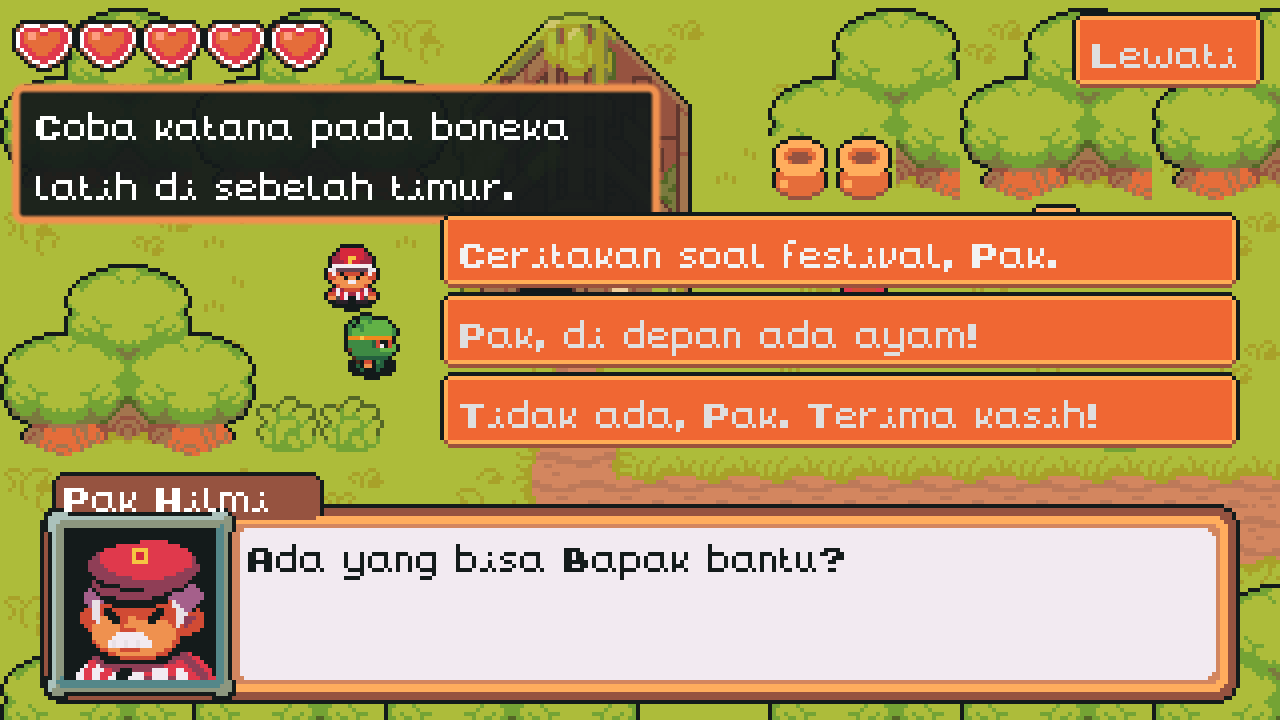
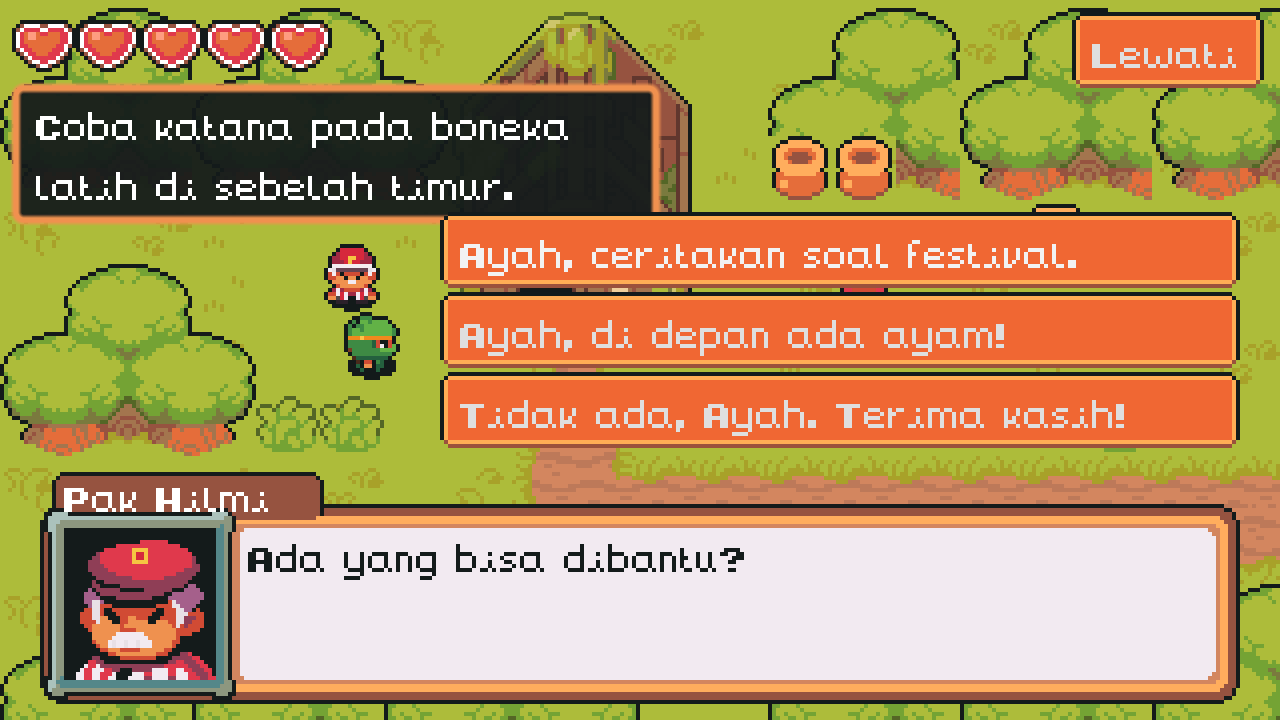
feat: panggilan Ayah (Pak Hilmi) dan Mamah (Dokter Zahra) dalam dialog; catatan hubungan keluarga
- dialog uji ID+EN diperbarui (EN sementara Dad/Mom), baris Arka berterima kasih kepada Mamah
- story_bible 3.2: panggilan + tiga opsi hubungan [USULAN] tanpa memutuskan; act01_desain S2/S6 dan 12.3
- fase2_catatan: pembaruan panggilan

Claude-Session: https://claude.ai/code/session_01F5qnggTGEAPer6BV2KrinP

diff --git a/docs/act01_desain.md b/docs/act01_desain.md
@@ -61,6 +61,7 @@ Desa Daun di pagi cerah (musik hangat), dibagi menjadi **6 ruang layar** (sistem
 | Pembicara | ID | EN |
 |---|---|---|
 | Pak Hilmi | Kumpulkan tiga gulungan latihan. Kerja sama itu penting, Arka. | Collect three training scrolls. Teamwork matters, Arka. |
+| Arka | Siap, Ayah! Kami akan bekerja sama. | Yes, Dad! We'll work together. |
 | Nadiya | Target terkunci. Jangan ada yang lewat di garis tembakku! | Target locked. Nobody cross my line of fire! |
 | Nadiya | ...Itu cuma papan petunjuk? | ...That was just a signboard? |
 | Farah | Secara teori, alat pelacak ini aman! | In theory, this tracker is safe! |
@@ -91,6 +92,7 @@ Desa Daun di pagi cerah (musik hangat), dibagi menjadi **6 ruang layar** (sistem
 | Pembicara | ID | EN |
 |---|---|---|
 | Pak Hilmi | Selamat! Kalian lulus! Minggu depan Festival Seribu Shuriken! | Congratulations! You passed! Next week is the Festival of a Thousand Shuriken! |
+| Arka | Terima kasih, Ayah! Aku lulus! | Thank you, Dad! I passed! |
 | Ibu Sari | HOKAGEEE! Ramenku jadi... bubur ungu! | HOKAGEEE! My ramen turned into... purple porridge! |
 | Farah | Detektorku bilang semua orang ancaman. Termasuk aku. | My detector says everyone is a threat. Including me. |
 | Bida | Ada jejak lendir menuju saluran air. Ini bukan kejadian satu kali. | A slime trail leads to the drain. This isn't a one-time thing. |
@@ -151,7 +153,8 @@ Setelah menemukan jeruji, Ibu Sari datang membawa kabar: **sumur desa mengeluark
 ### 12.3 Pengaturan teknis
 - Musik: R1-R3 `33 - Calm Village` / `31 - Sunny`; pengejaran `35 - Adventure`; boss ringan `34 - Fight` (volume rendah); gudang `28 - Tension` (ringan) lalu kembali tenang.
 - Cuaca/lingkungan: cerah, daun berguguran ringan di R5.
-- Dokter Zahra di R2 menyembuhkan seluruh tim setiap diajak bicara (sesuai brief).
+- Dokter Zahra di R2 menyembuhkan seluruh tim setiap diajak bicara (sesuai brief). Keempat tokoh utama menyapanya "Mamah" (EN sementara: "Mom"), mis. Arka: "Terima kasih, Mamah!"
+- **Panggilan:** Arka, Bida, Nadiya, Farah memanggil Pak Hilmi "Ayah" dan Dokter Zahra "Mamah" (EN sementara "Dad"/"Mom"). Warga lain dan narasi tetap "Hokage Pak Hilmi" dan "Dokter Zahra"; nama pembicara di kotak dialog tidak berubah.
 - Mode Santai: ayam lebih lambat, boss 2 pukulan.
 - **Tutorial bertahap:** gerak (R1) → interaksi dan dialog (R3) → serang (pos 2) → bidik Nadiya (target) → perintah partner (pengejaran) → dash (celah pasar) → boss.
 

diff --git a/docs/story_bible.md b/docs/story_bible.md
@@ -67,6 +67,15 @@ Keputusan tampilan (pengguna): **Bida, Nadiya, dan Farah berhijab atau bertudung
 | **Dokter Zahra** | Membantu memimpin Desa Daun, dokter desa; **berhijab** biru muda yang lembut dengan jas putih berlambang palang | Keibuan dan lembut, takut serangga | **Menyembuhkan rombongan setiap kali mereka datang ke rumah Hokage dan berinteraksi dengannya** |
 | **Kuro** | Antagonis: dulu murid berbakat yang ikut membangun Mesin; proyek dihentikan setelah kecelakaan, ia merasa dikhianati | Tetap manusiawi (lihat usulan di 3.3) | Berubah dari lawan menjadi sekutu yang memperbaiki desa |
 
+**Panggilan keluarga (keputusan pengguna):** Arka, Bida, Nadiya, dan Farah memanggil Pak Hilmi **"Ayah"** dan Dokter Zahra **"Mamah"** dalam percakapan sehari-hari (EN sementara: "Dad" / "Mom"; bisa diganti). Warga lain, narasi, dan nama pembicara di dialog tetap "Hokage Pak Hilmi" dan "Dokter Zahra"; nama baku di brief tidak berubah.
+
+**[USULAN] Hubungan keluarganya belum ditentukan pengguna.** Opsi (jangan dianggap keputusan):
+- **A. Anak kandung** Pak Hilmi dan Dokter Zahra (Arka) dan anak-anak lain dianggap saudara/sahabat keluarga. Tema Arka ("Hokage itu terkenal dan dapat ramen gratis" → melayani warga) menjadi juga soal melanjutkan jejak ayahnya.
+- **B. Anak asuh** keluarga Hokage: keempatnya dibesarkan di rumah Hokage. Cocok dengan tim yang saling menjaga dan dengan rumah Hokage sebagai tempat pulang/pemulihan.
+- **C. Murid yang dianggap anak:** panggilan "Ayah/Mamah" tumbuh dari kedekatan murid-guru. Paling mudah selaras dengan masa lalu Pak Hilmi sebagai guru di akademi.
+
+Catatan keselarasan: (1) Hubungan Pak Hilmi dengan **Kuro** tetap sebagai **murid di akademi**; pada opsi A/B, Kuro bisa dipandang "murid yang tidak pernah dipanggil anak" sehingga rasa dikhianatinya makin dimengerti, tanpa mengubah motivasi yang sudah dikunci di 4.1. (2) Tema Arka tidak bertabrakan: ketenaran dan ramen gratis tetap motivasi awal; "Ayah" yang melayani warga menjadi teladan yang pelan-pelan ia pahami. (3) Dokter Zahra tetap "istri Hokage" seperti di tabel nama baku.
+
 ### 3.3 [USULAN] Kuro yang manusiawi
 Supaya Kuro tidak jadi penjahat satu dimensi:
 - Ia merawat **kebun kecil dan kucing liar** di markasnya (menjelaskan banyaknya kucing di Act 7; **Kucing Petir** adalah kucing yang ia beri makan, membesar karena energi curian).

diff --git a/docs/fase2_catatan.md b/docs/fase2_catatan.md
@@ -176,3 +176,16 @@ kesulitan perlu dicoba langsung oleh pengguna.
   `assets/SOURCES.md`. `docs/act01_desain.md` tidak menyebut tampilan tokoh sehingga tidak berubah.
 - Screenshot sprite: `docs/fase2_screenshots/16_sprite_tokoh.png` (semua tokoh, 4 arah, semua baris animasi, plus faceset).
   Seluruh screenshot dalam game diambil ulang setelah perubahan ini.
+
+## Pembaruan: panggilan "Ayah" dan "Mamah" (keputusan pengguna)
+
+- Arka, Bida, Nadiya, Farah memanggil **Pak Hilmi "Ayah"** dan **Dokter Zahra "Mamah"** (ID). Versi **EN sementara "Dad" / "Mom"**
+  (mudah diganti: hanya di `content/acts/act01/act01_dialogs.en.json`, kunci `CH_HILMI_*`, `DLG_HILMI_ARKA_*`, `DLG_ZAHRA_ARKA_RAMEN`,
+  `DLG_ZAHRA_TERIMA_KASIH`). Warga lain dan narasi tetap "Hokage Pak Hilmi" / "Dokter Zahra"; **nama pembicara tidak berubah**
+  (`translations/characters.*.json`), hanya kata sapaan dalam kalimat.
+- Dialog uji yang diubah: pilihan dan jawaban Arka di `hilmi_sapa` ("Ayah, di depan ada ayam!", "Ayah, ada ramen gratis?"),
+  `zahra_sembuhkan` ("Siap, Mamah!" dan baris baru "Terima kasih, Mamah!"). Pak Hilmi tidak lagi menyebut dirinya "Bapak"
+  (kalimatnya dibuat netral) supaya tidak memutuskan hubungan keluarga yang belum ditentukan.
+- `docs/story_bible.md` 3.2: catatan panggilan + tiga opsi hubungan ditandai **[USULAN]** (anak kandung / anak asuh / murid yang
+  dianggap anak), tidak diputuskan; keselarasan dengan tema Arka dan hubungan Pak Hilmi-Kuro dicatat. `docs/act01_desain.md`:
+  baris Arka di S2 dan S6 ditambahkan, serta catatan panggilan di bagian 12.3.
